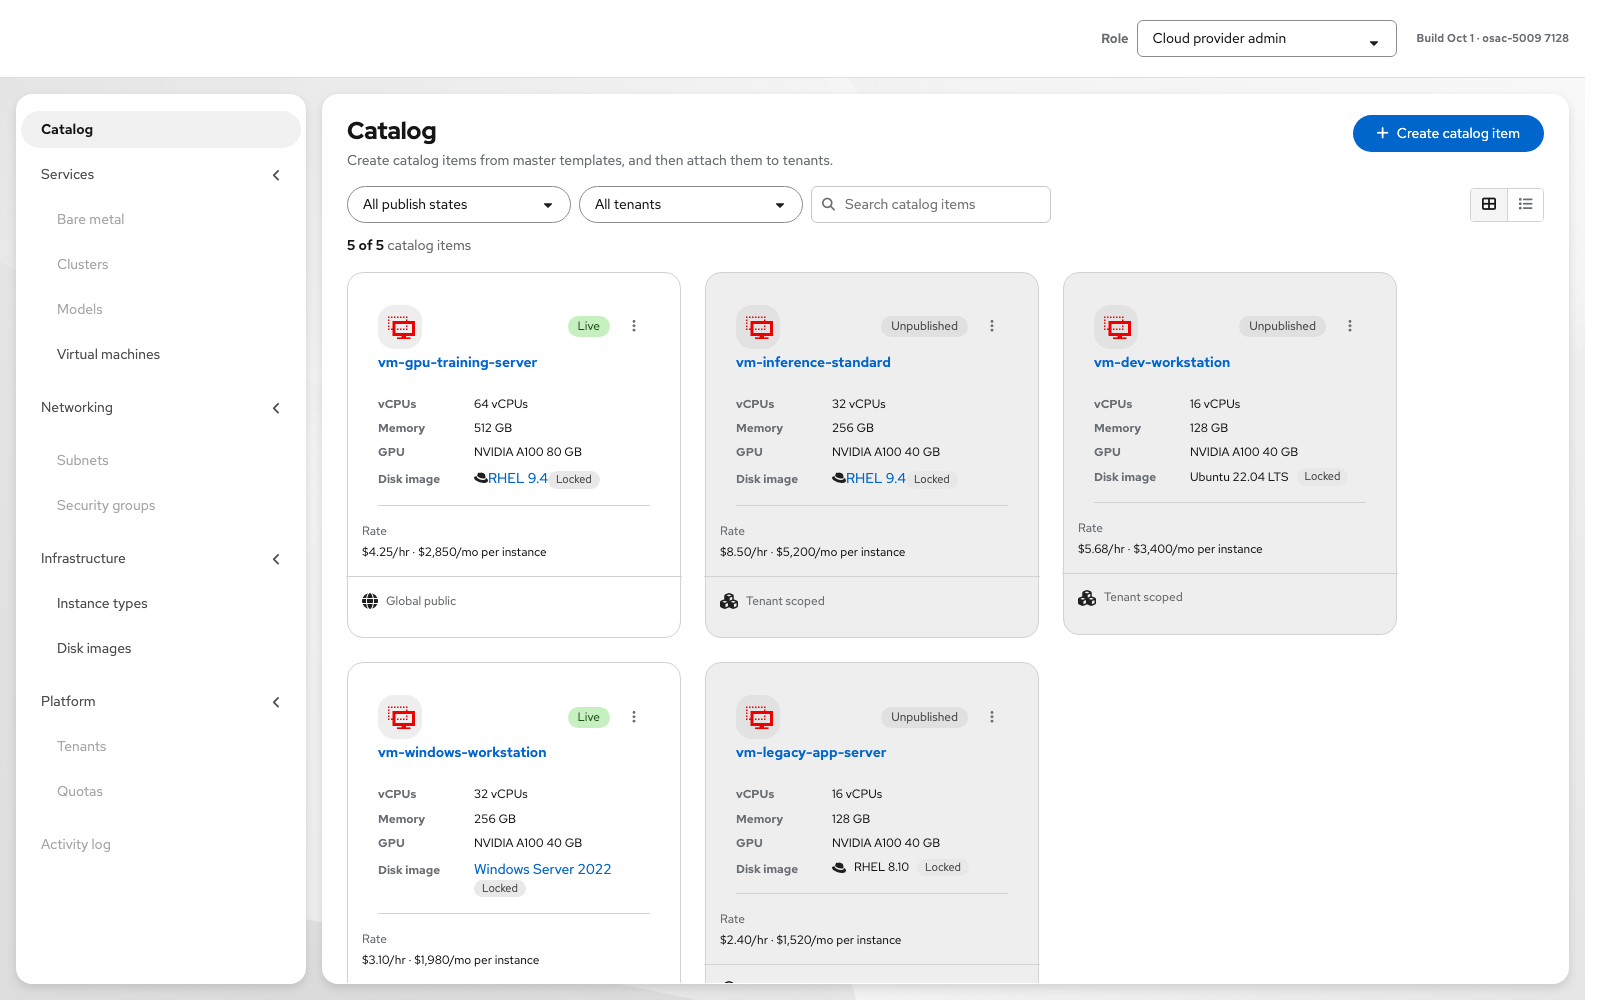
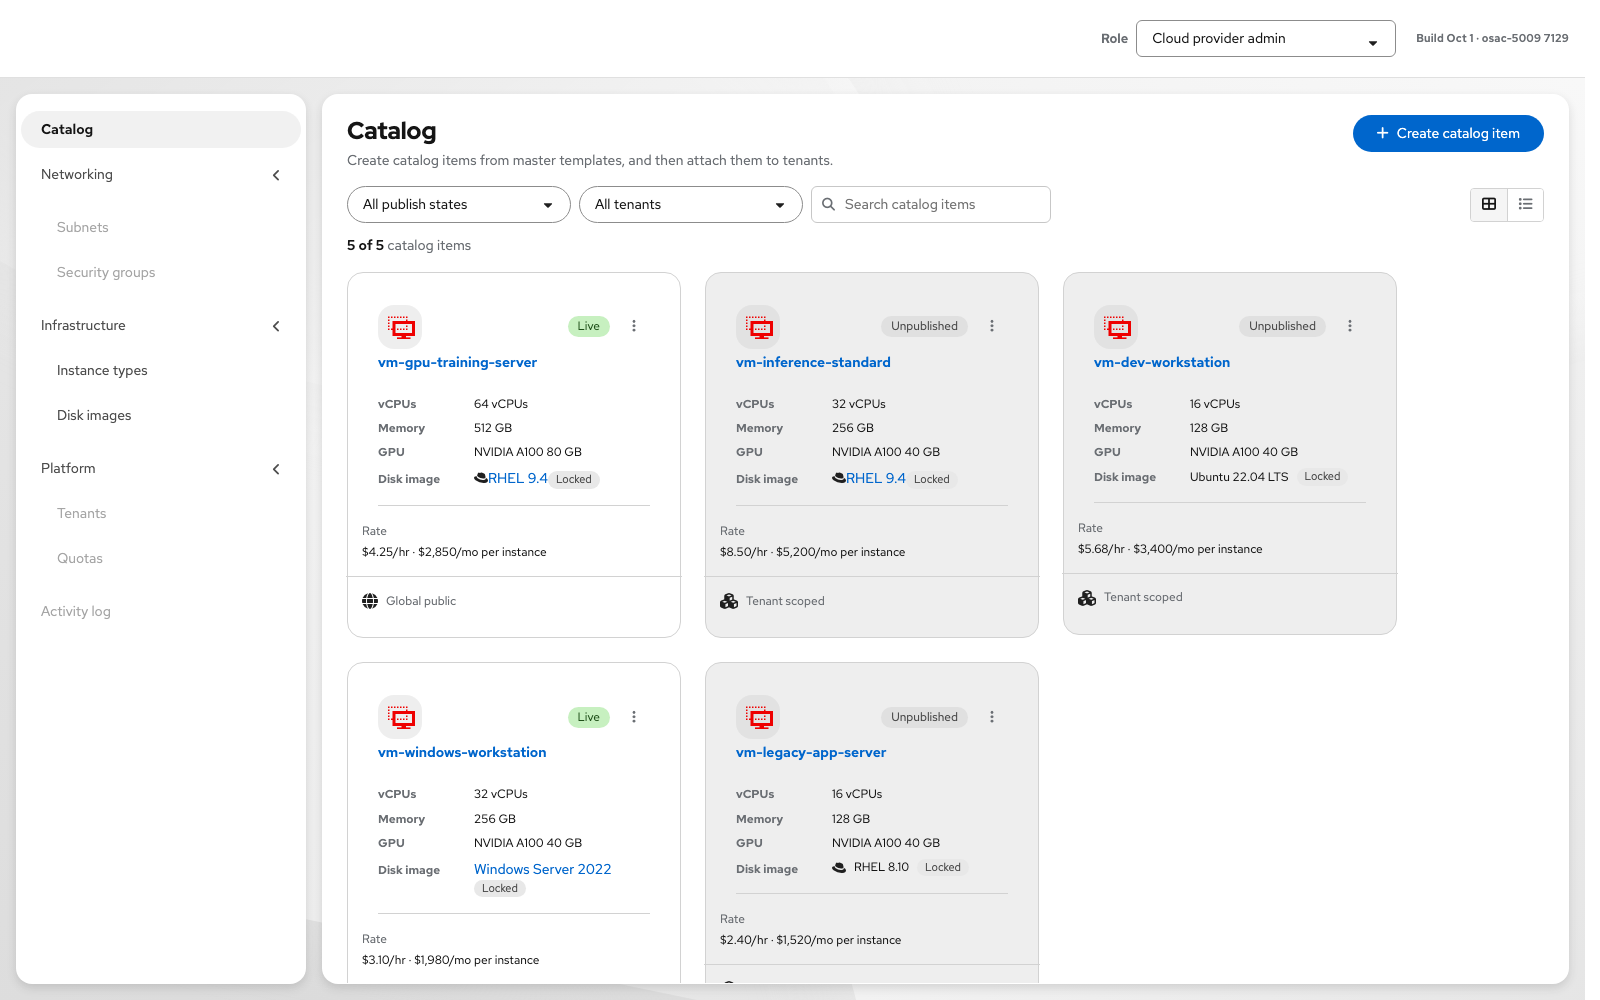
Refresh provider Catalog screenshots and UX doc for nav without Services.

diff --git a/vmaas-prototype-ux-doc.md b/vmaas-prototype-ux-doc.md
@@ -2,7 +2,7 @@
 
 **Source of truth (Google Doc, tabbed):** [VMaaS prototype — UX documentation](https://docs.google.com/document/d/1Vfn_9cGj92BOaqFKWE64pnL5Mi8WcCGwEllCVlhAWes/edit)
 
-**Mock (aligned):** [vmaas-ux-prototype.html?v=7128](https://yfrimanm.github.io/openshift-origin-design/vmaas-ux-prototype.html?v=7128) · Build Oct 1 · osac-5009 **7128**
+**Mock (aligned):** [vmaas-ux-prototype.html?v=7129](https://yfrimanm.github.io/openshift-origin-design/vmaas-ux-prototype.html?v=7129) · Build Oct 1 · osac-5009 **7129**
 
 | Tab | Contents |
 |---|---|
@@ -20,8 +20,8 @@
 | | |
 |---|---|
 | **Scope** | Full interactive prototype: Virtual machines list + Create wizard + Overview, plus provider Catalog, Instance types, Disk images |
-| **Interactive mock** | https://yfrimanm.github.io/openshift-origin-design/vmaas-ux-prototype.html?v=7128 |
-| **Deep links** | [Create](https://yfrimanm.github.io/openshift-origin-design/vmaas-ux-prototype.html?v=7128&create=1) · [Overview](https://yfrimanm.github.io/openshift-origin-design/vmaas-ux-prototype.html?v=7128&vm=indigo-quokka-89) · [Catalog](https://yfrimanm.github.io/openshift-origin-design/vmaas-ux-prototype.html?v=7128&role=provider) |
+| **Interactive mock** | https://yfrimanm.github.io/openshift-origin-design/vmaas-ux-prototype.html?v=7129 |
+| **Deep links** | [Create](https://yfrimanm.github.io/openshift-origin-design/vmaas-ux-prototype.html?v=7129&create=1) · [Overview](https://yfrimanm.github.io/openshift-origin-design/vmaas-ux-prototype.html?v=7129&vm=indigo-quokka-89) · [Catalog](https://yfrimanm.github.io/openshift-origin-design/vmaas-ux-prototype.html?v=7129&role=provider) |
 | **Google Doc** | [Tabbed source of truth](https://docs.google.com/document/d/1Vfn_9cGj92BOaqFKWE64pnL5Mi8WcCGwEllCVlhAWes/edit) |
 | **Create screenshots** | `videos/vmaas-create-vm-only-ux-doc/` · [gh-pages](https://github.com/yfrimanm/openshift-origin-design/tree/gh-pages/screenshots/create) |
 | **Regenerate Create screenshots** | `node scripts/capture-vmaas-create-vm-only-screenshots.mjs` |
@@ -36,7 +36,7 @@ One coherent product surface for engineering and stakeholders: tenant Create / O
 |---|---|---|
 | **Tenant Admin** | Services → Virtual machines, Networking | List, Create wizard, VM Overview (editable) |
 | **Tenant User** | Same nav; Create hidden | Power / console; Overview read-only |
-| **Cloud provider admin** | Catalog, Instance types, Disk images | Provider list / create / detail |
+| **Cloud provider admin** | Catalog, Instance types, Disk images | Provider list / create / detail · **No Services** in nav |
 
 ## UX summary
 
